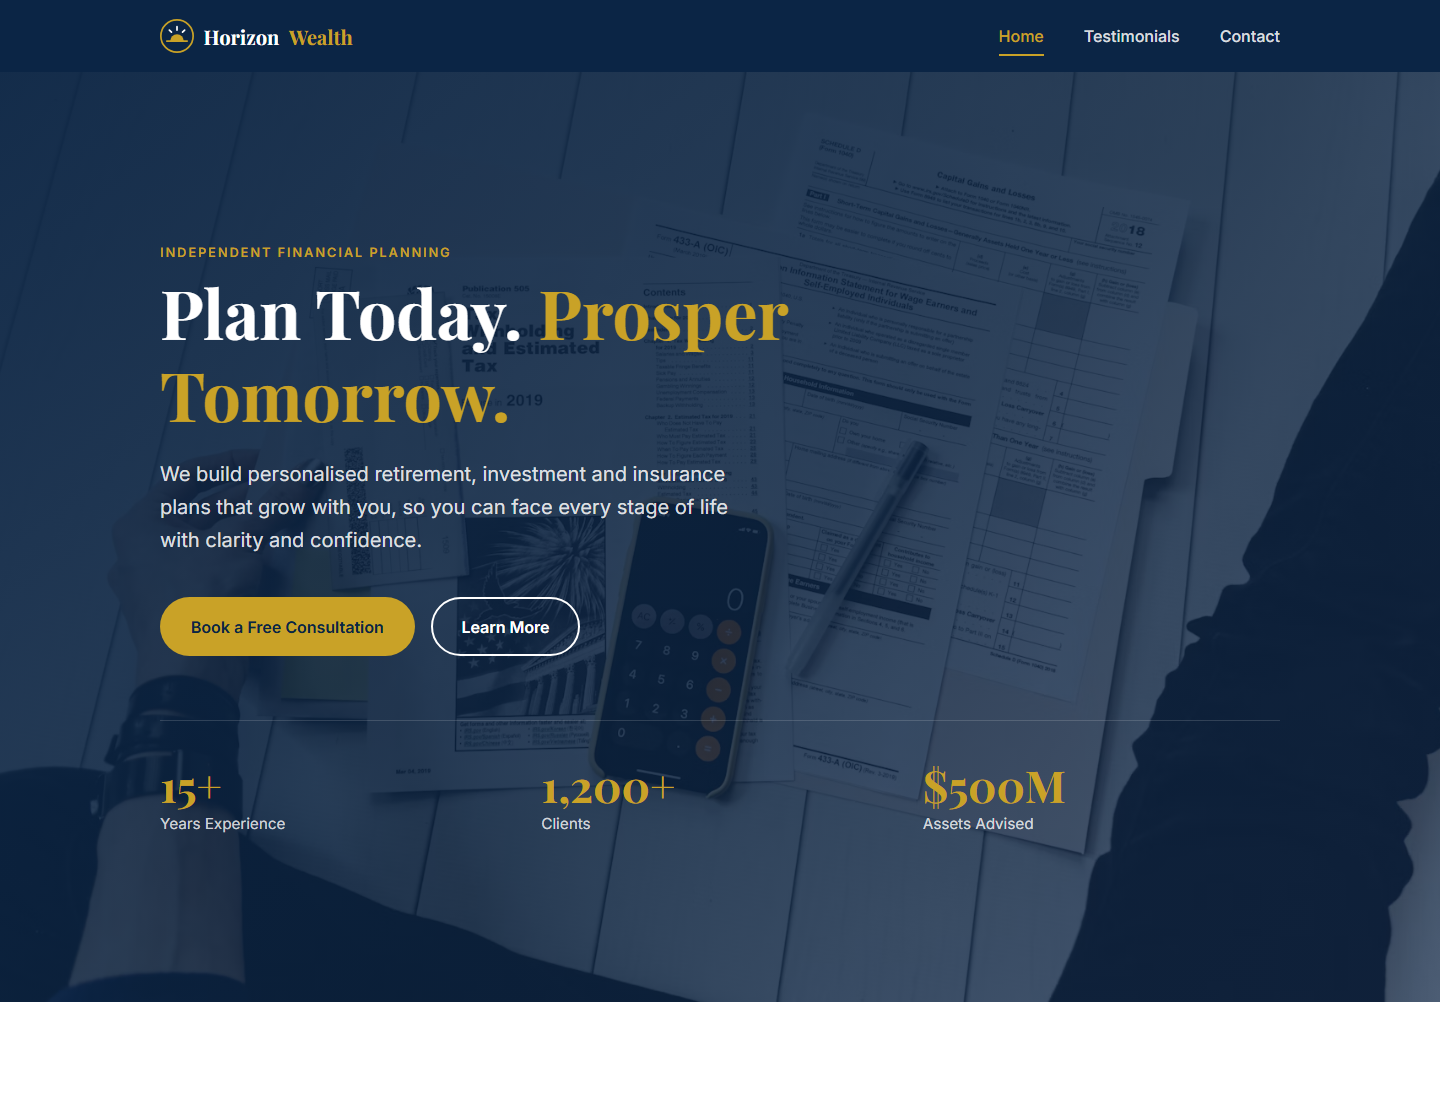
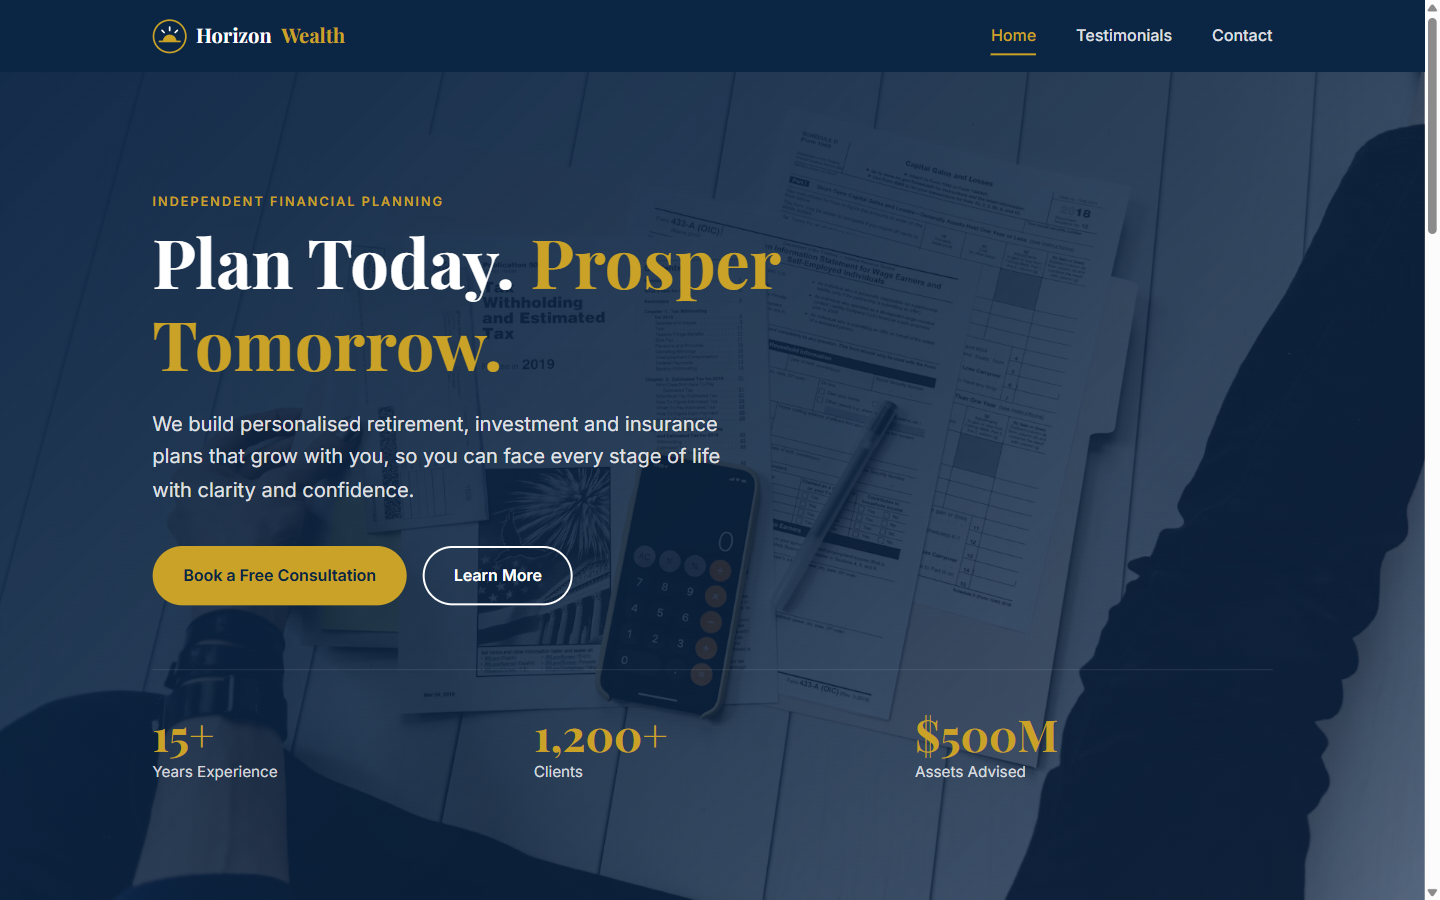
Refresh homepage screenshot via Playwright and add screenshot step to publish-github
- Recapture docs/screenshot.png with the Playwright MCP (1440x900, stats and fade-ins settled)
- Add a Playwright screenshot step to the /publish-github command
- Add .mcp.json configuring the Playwright MCP server

diff --git a/.claude/commands/publish-github.md b/.claude/commands/publish-github.md
@@ -1,0 +1,112 @@
+---
+description: Security-scan the project, then push it to GitHub with README, About section, Pages deploy and live link
+argument-hint: <owner/repo or GitHub URL> [public|private]
+allowed-tools: Bash(git:*), Bash(gh:*), Bash(curl:*), Bash(grep:*), Bash(find:*), Bash(gitleaks:*), Bash(sleep:*), Bash(cp:*), Bash(mkdir:*), Bash(python:*), mcp__playwright__browser_navigate, mcp__playwright__browser_resize, mcp__playwright__browser_wait_for, mcp__playwright__browser_evaluate, mcp__playwright__browser_take_screenshot, mcp__playwright__browser_close, Read, Edit, Write, Grep, Glob
+---
+
+Publish this project to GitHub. Repo info from the user: `$ARGUMENTS`
+
+Work through the steps in order. Do not skip the security scan, and do not push anything if it finds a problem.
+
+## 0. Resolve the target repo
+
+- Accept `owner/repo`, `https://github.com/owner/repo(.git)` or `git@github.com:owner/repo.git`. Normalise to `OWNER` and `REPO`.
+- If `$ARGUMENTS` is empty, fall back to the existing `origin` remote (`git remote get-url origin`). If there is no remote either, ask the user for the repo and stop.
+- Visibility defaults to `public`. GitHub Pages on a private repo needs a paid plan, so warn the user if they chose `private`.
+- Check `gh auth status`. If not logged in, tell the user to run `gh auth login` and stop.
+- Check whether the repo exists: `gh repo view OWNER/REPO --json name,visibility,defaultBranchRef`.
+- The Pages URL is `https://OWNER.github.io/REPO/` (lower-case owner). If REPO is `OWNER.github.io`, it is `https://OWNER.github.io/`.
+
+## 1. Security scan (gate before anything goes online)
+
+Scan everything that would be pushed: tracked files, untracked files that are not ignored, **and the full git history** (history is pushed too).
+
+```bash
+git ls-files; git ls-files --others --exclude-standard     # files that would be published
+```
+
+1. **Secret scanner.** If `gitleaks` is installed, run `gitleaks detect --source . --redact -v` (covers history). Otherwise do the manual checks below.
+2. **Sensitive files.** Flag any of these in the file list or in `git log --all --name-only`:
+   `.env*` (except `.env.example`), `*.pem`, `*.key`, `*.p12`, `*.pfx`, `id_rsa*`, `id_ed25519*`, `*.keystore`, `credentials*.json`, `service-account*.json`, `*.sqlite`, `*.db`, `.npmrc`, `.pypirc`, `*.tfstate`, `.claude/settings.local.json`.
+3. **Secret patterns.** Grep the working tree (`git grep -nIE`) and history (`git log -p --all | grep -nE`) for:
+   - AWS `AKIA[0-9A-Z]{16}` · GitHub `gh[pousr]_[A-Za-z0-9]{36,}` and `github_pat_[A-Za-z0-9_]{20,}`
+   - OpenAI/Anthropic `sk-(proj-|ant-)?[A-Za-z0-9_-]{20,}` · Google `AIza[0-9A-Za-z_-]{35}` · Slack `xox[abprs]-[A-Za-z0-9-]{10,}`
+   - Stripe `(sk|rk)_live_[A-Za-z0-9]{20,}` · `-----BEGIN [A-Z ]*PRIVATE KEY-----` · JWTs `eyJ[A-Za-z0-9_-]{10,}\.eyJ`
+   - Credentials in URLs `[a-z]+://[^/\s:@]+:[^/\s@]+@`
+   - Assignments like `(password|passwd|secret|api[_-]?key|token|client_secret)\s*[:=]\s*['"][^'"]{6,}`
+4. **Personal data.** In this site every email must end in `.example` and the phone number is the placeholder `+65 6123 4567` (see README "Placeholder content"). Flag any other real-looking emails, phone numbers, NRIC/SSN-style IDs or street addresses. Also note the commit author emails (`git log --format='%ae' | sort -u`) that will become public, and suggest a `users.noreply.github.com` address if a personal one is used.
+5. **Large files.** Flag anything over 50 MB (`find . -path ./.git -prune -o -type f -size +50M -print`).
+
+Report each finding as a table: file:line, what it is, severity, fix. Treat false positives sensibly (for example a placeholder in docs) and say why you dismissed them.
+
+If there are real findings, **stop and do not push**:
+- Working-tree only: remove or redact the value, add the file pattern to `.gitignore`, and tell the user to rotate the secret.
+- Already in history: explain that the secret must be rotated and history rewritten (`git filter-repo`), and ask the user before rewriting anything.
+
+Make sure `.gitignore` covers the sensitive patterns above; add any that are missing.
+
+## 2. Screenshot (Playwright MCP)
+
+Capture a fresh homepage screenshot with the Playwright MCP server (configured in `.mcp.json`) and save it as `docs/screenshot.png`.
+
+1. Serve the site locally so fonts and images load the same way as on Pages: run `python -m http.server 8765` in the background from the project root.
+2. `browser_resize` to 1440 x 900, then `browser_navigate` to `http://localhost:8765/index.html`.
+3. Make the shot deterministic: `browser_evaluate` to add `.visible` to every `.fade-in` element and set each `.stat-number` to its final value (`data-prefix` + `data-target` formatted with thousands separators + `data-suffix`). Then `browser_wait_for` about 2 seconds so the hero image and fonts finish loading.
+4. `browser_take_screenshot` with `filename: "docs/screenshot.png"`, `type: "png"`, `scale: "css"` (viewport only, not full page). Relative filenames resolve against the project root, so it overwrites the existing screenshot in place.
+5. `browser_close` and stop the local server.
+6. Read the PNG to check it shows the header and hero correctly (no blank image, no cookie or error overlay). If Playwright is unavailable, keep the existing screenshot and say so in the report.
+
+Stage `docs/screenshot.png` with the other files in step 5.
+
+## 3. README
+
+Create `README.md` if missing, otherwise edit it in place. Keep existing content and tone; only add or correct what is missing or stale.
+
+It must contain:
+- Project name and a one-paragraph description (read `index.html` and `CLAUDE.md` for what the site actually does)
+- `**Live site:** <Pages URL>` near the top, matching the URL from step 0 (fix it if the repo name changed)
+- The screenshot `docs/screenshot.png` from step 2, embedded below the live link with alt text that describes what it actually shows
+- Features, a placeholder-content note, run-locally instructions, the JS syntax-check command, a Deployment section pointing at `.github/workflows/pages.yml`, and the contributing conventions
+- A link to `CLAUDE.md`
+
+## 4. GitHub Pages workflow
+
+Create or update `.github/workflows/pages.yml` so it deploys the repo root on every push to `main` and on `workflow_dispatch`, using the current major versions of `actions/checkout`, `actions/configure-pages` (with `enablement: true`), `actions/upload-pages-artifact` (`path: .`) and `actions/deploy-pages`, with `permissions: contents: read, pages: write, id-token: write` and a `pages` concurrency group. Leave the file alone if it already matches.
+
+## 5. Commit and push
+
+- Make sure the branch is `main` (`git branch -M main` if needed).
+- If the repo does not exist: `gh repo create OWNER/REPO --<visibility> --source . --remote origin`.
+- If it exists: set `origin` to `https://github.com/OWNER/REPO.git` (`git remote add` or `git remote set-url`).
+- Stage only the intended files by name (never `git add -A` blindly), re-run the step 1 pattern grep on `git diff --cached`, then commit with a clear message.
+- `git push -u origin main`. Never force-push; if the push is rejected, show the user why and ask how to proceed.
+
+## 6. Enable Pages and confirm the deploy
+
+- Enable Pages with the Actions source:
+  `gh api -X POST repos/OWNER/REPO/pages -f build_type=workflow`, or if it already exists
+  `gh api -X PUT repos/OWNER/REPO/pages -f build_type=workflow`.
+- Find the run for the push (`gh run list --workflow pages.yml --limit 1`) and `gh run watch <id> --exit-status`. If the run failed before Pages was enabled, re-run it with `gh run rerun <id>`.
+- If the run fails, show `gh run view <id> --log-failed` and stop.
+- Confirm the site responds: `curl -sI <Pages URL>` should return 200 (the CDN can take a minute; retry a few times).
+
+## 7. About section
+
+Update the repo's About section:
+
+```bash
+gh repo edit OWNER/REPO \
+  --description "<one-line summary of the site>" \
+  --homepage "<Pages URL>" \
+  --add-topic html --add-topic css --add-topic javascript --add-topic github-pages --add-topic <2-3 topics specific to this project>
+```
+
+Verify with `gh repo view OWNER/REPO --json description,homepageUrl,repositoryTopics`.
+
+## 8. Report
+
+Finish with a short summary:
+- Security scan result (clean, or what was found and fixed/dismissed)
+- Repo URL and live Pages URL
+- What changed in README, workflow and About section
+- Anything the user still has to do by hand (rotate a secret, change Pages source in Settings, etc.)
